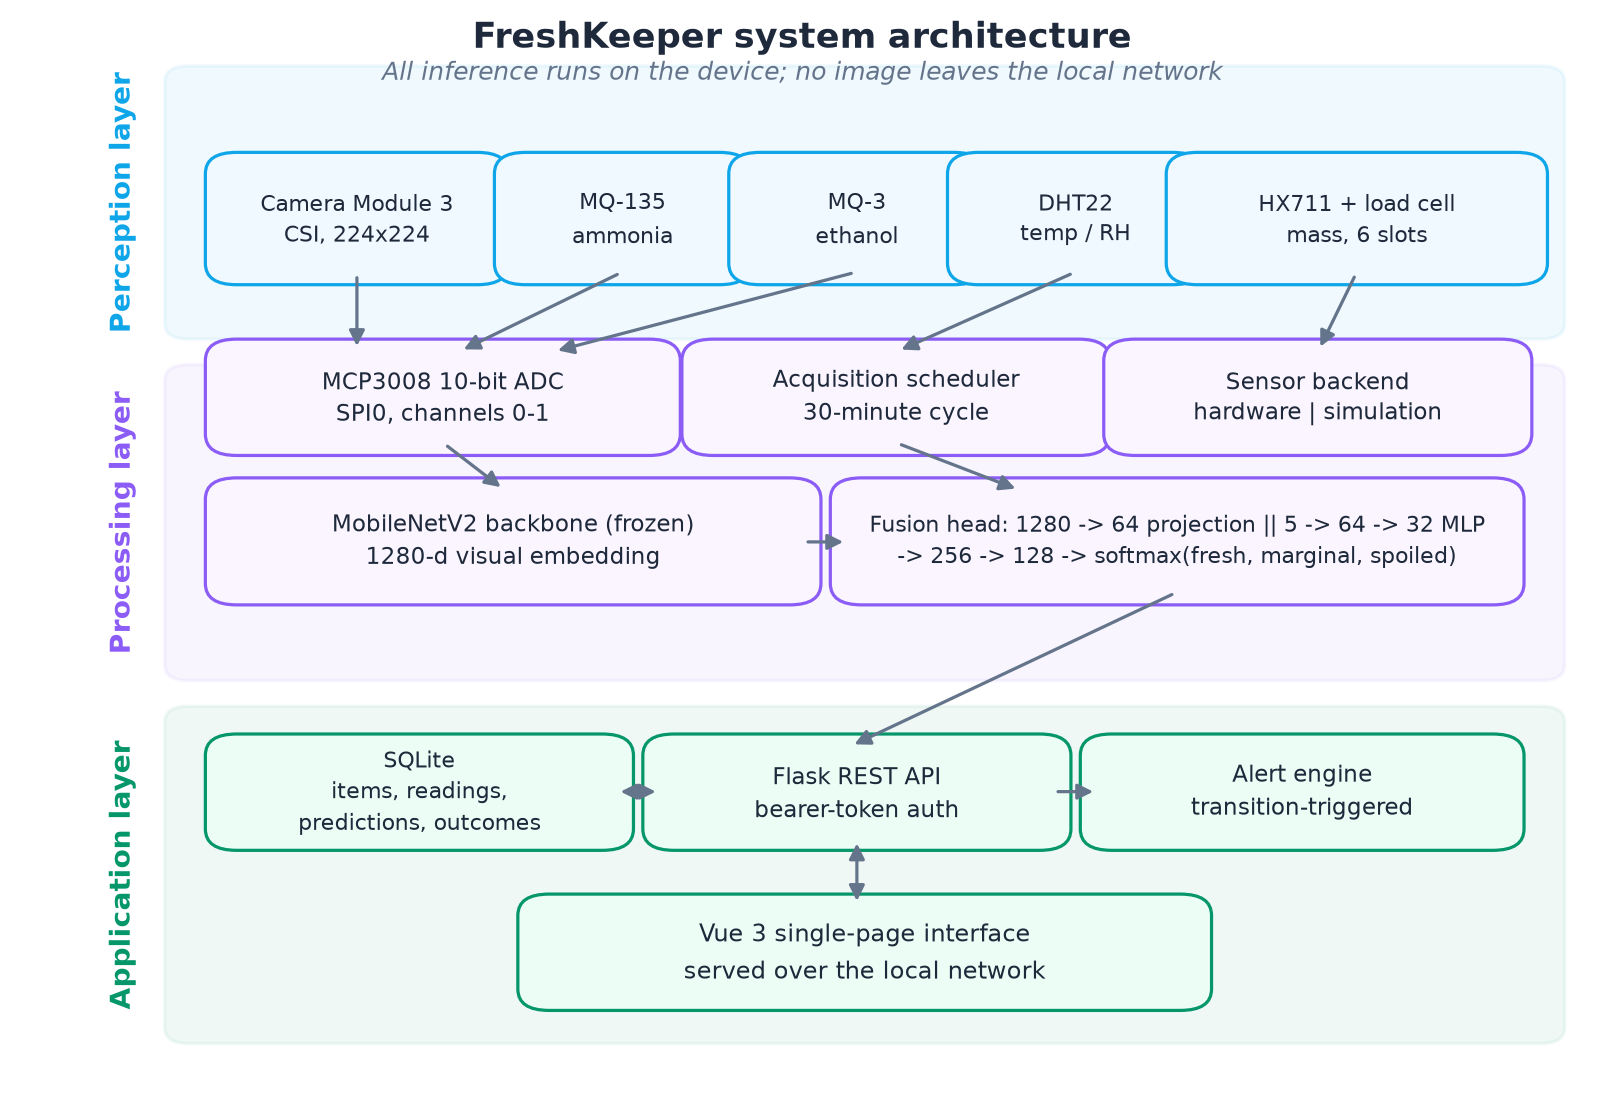
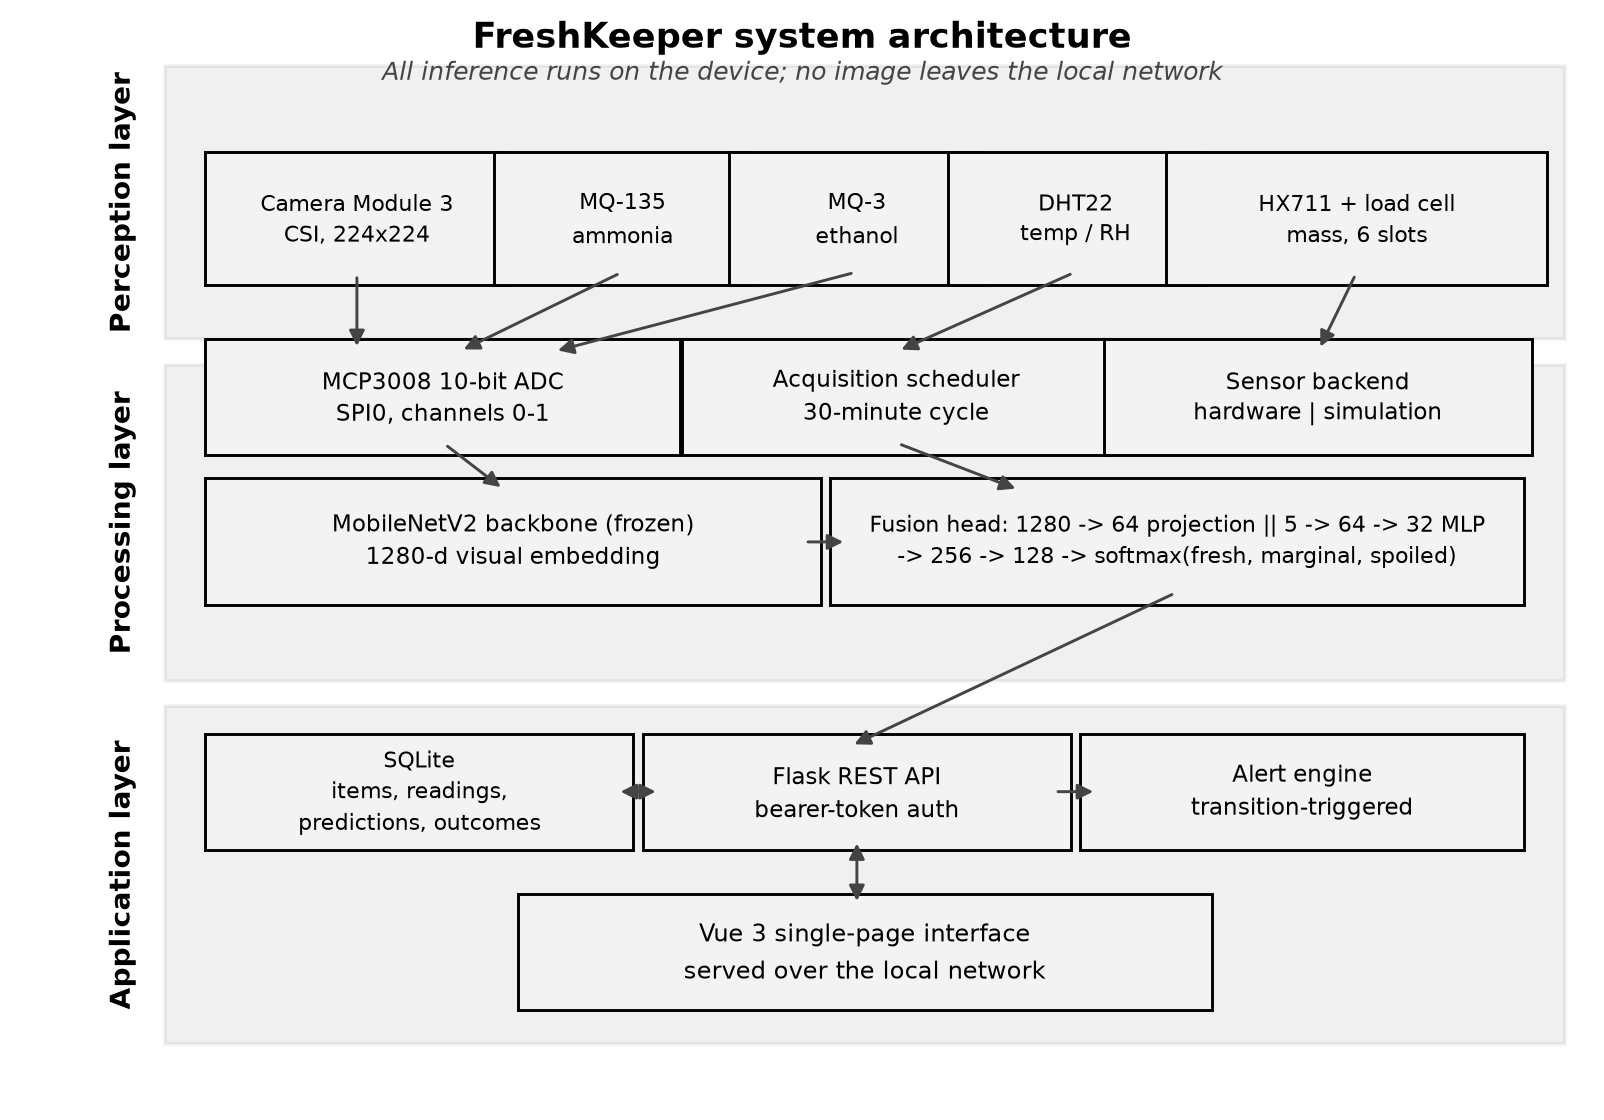
Restyle schematic diagrams to plain black-and-white academic style
Square boxes, thin black lines, light-grey fill, no colours. The architecture,
wiring, database, sequence and model diagrams now read like standard paper
figures instead of designed graphics. Nudged an overlapping label on the
database diagram.

diff --git a/scripts/make_diagrams.py b/scripts/make_diagrams.py
@@ -25,20 +25,20 @@ ROOT = Path(__file__).resolve().parents[1]
 sys.path.insert(0, str(ROOT))
 FIGURES = ROOT / "docs" / "figures"
 
-INK = "#1e293b"
-MUTED = "#64748b"
-LAYER_COLOURS = {"perception": "#0ea5e9", "network": "#8b5cf6", "application": "#059669"}
+INK = "#000000"
+MUTED = "#444444"
+LAYER_COLOURS = {"perception": "#000000", "network": "#000000", "application": "#000000"}
 
 
-def box(ax, x, y, w, h, text, face="#ffffff", edge=INK, fontsize=8.5, weight="normal"):
+def box(ax, x, y, w, h, text, face="#f3f3f3", edge=INK, fontsize=8.5, weight="normal"):
     ax.add_patch(FancyBboxPatch(
-        (x, y), w, h, boxstyle="round,pad=0.012,rounding_size=0.02",
-        facecolor=face, edgecolor=edge, linewidth=1.1))
+        (x, y), w, h, boxstyle="square,pad=0.012",
+        facecolor=face, edgecolor=edge, linewidth=1.0))
     ax.text(x + w / 2, y + h / 2, text, ha="center", va="center",
             fontsize=fontsize, color=INK, weight=weight, linespacing=1.45)
 
 
-def arrow(ax, start, end, style="-|>", colour=INK, lw=1.1, ls="-"):
+def arrow(ax, start, end, style="-|>", colour=INK, lw=1.0, ls="-"):
     ax.add_patch(FancyArrowPatch(
         start, end, arrowstyle=style, mutation_scale=11,
         color=colour, linewidth=lw, linestyle=ls,
@@ -68,7 +68,7 @@ def architecture() -> None:
     # the first row of boxes.
     for name, y, h, colour in bands:
         ax.add_patch(FancyBboxPatch(
-            (0.10, y), 0.88, h, boxstyle="round,pad=0.008,rounding_size=0.015",
+            (0.10, y), 0.88, h, boxstyle="square,pad=0.008",
             facecolor=colour, alpha=0.06, edgecolor=colour, linewidth=1.2))
         ax.text(0.065, y + h / 2, name, fontsize=9.5, weight="bold",
                 color=colour, rotation=90, ha="center", va="center")
@@ -82,39 +82,39 @@ def architecture() -> None:
     ]
     for label, x in sensors:
         width = 0.22 if "HX711" in label else (0.17 if "Camera" in label else 0.14)
-        box(ax, x, 0.775, width, 0.10, label, face="#f0f9ff",
+        box(ax, x, 0.775, width, 0.10, label, face="#f3f3f3",
             edge=LAYER_COLOURS["perception"], fontsize=7.6)
 
     box(ax, 0.13, 0.615, 0.28, 0.085,
-        "MCP3008 10-bit ADC\nSPI0, channels 0-1", face="#faf5ff",
+        "MCP3008 10-bit ADC\nSPI0, channels 0-1", face="#f3f3f3",
         edge=LAYER_COLOURS["network"], fontsize=7.8)
     box(ax, 0.435, 0.615, 0.25, 0.085,
-        "Acquisition scheduler\n30-minute cycle", face="#faf5ff",
+        "Acquisition scheduler\n30-minute cycle", face="#f3f3f3",
         edge=LAYER_COLOURS["network"], fontsize=7.8)
     box(ax, 0.705, 0.615, 0.25, 0.085,
-        "Sensor backend\nhardware | simulation", face="#faf5ff",
+        "Sensor backend\nhardware | simulation", face="#f3f3f3",
         edge=LAYER_COLOURS["network"], fontsize=7.8)
 
     box(ax, 0.13, 0.475, 0.37, 0.095,
         "MobileNetV2 backbone (frozen)\n1280-d visual embedding",
-        face="#faf5ff", edge=LAYER_COLOURS["network"], fontsize=7.8)
+        face="#f3f3f3", edge=LAYER_COLOURS["network"], fontsize=7.8)
     box(ax, 0.53, 0.475, 0.42, 0.095,
         "Fusion head: 1280 -> 64 projection || 5 -> 64 -> 32 MLP\n"
         "-> 256 -> 128 -> softmax(fresh, marginal, spoiled)",
-        face="#faf5ff", edge=LAYER_COLOURS["network"], fontsize=7.4)
+        face="#f3f3f3", edge=LAYER_COLOURS["network"], fontsize=7.4)
 
     box(ax, 0.13, 0.245, 0.25, 0.085,
         "SQLite\nitems, readings,\npredictions, outcomes",
-        face="#ecfdf5", edge=LAYER_COLOURS["application"], fontsize=7.5)
+        face="#f3f3f3", edge=LAYER_COLOURS["application"], fontsize=7.5)
     box(ax, 0.41, 0.245, 0.25, 0.085,
         "Flask REST API\nbearer-token auth",
-        face="#ecfdf5", edge=LAYER_COLOURS["application"], fontsize=7.8)
+        face="#f3f3f3", edge=LAYER_COLOURS["application"], fontsize=7.8)
     box(ax, 0.69, 0.245, 0.26, 0.085,
         "Alert engine\ntransition-triggered",
-        face="#ecfdf5", edge=LAYER_COLOURS["application"], fontsize=7.8)
+        face="#f3f3f3", edge=LAYER_COLOURS["application"], fontsize=7.8)
     box(ax, 0.33, 0.095, 0.42, 0.085,
         "Vue 3 single-page interface\nserved over the local network",
-        face="#ecfdf5", edge=LAYER_COLOURS["application"], fontsize=8.2)
+        face="#f3f3f3", edge=LAYER_COLOURS["application"], fontsize=8.2)
 
     arrow(ax, (0.215, 0.775), (0.215, 0.700), colour=MUTED)   # camera -> ADC
     arrow(ax, (0.385, 0.775), (0.28, 0.700), colour=MUTED)     # MQ-135 -> ADC
@@ -148,7 +148,7 @@ def wiring() -> None:
 
     fig, ax = blank_axes((9.8, 6.4))
     box(ax, 0.36, 0.30, 0.28, 0.42, "Raspberry Pi 4\nModel B (4 GB)\n\n40-pin GPIO header",
-        face="#fef2f2", edge="#b91c1c", fontsize=9, weight="bold")
+        face="#f3f3f3", edge="#b91c1c", fontsize=9, weight="bold")
 
     peripherals = [
         ("DHT22 (AM2302)\ntemperature / humidity", 0.04, 0.60, 0.24, 0.11,
@@ -165,7 +165,7 @@ def wiring() -> None:
          f"GPIO {rpi.PIN_HEATER_GATE}\ngate drive", "left"),
     ]
     for label, x, y, w, h, pins, side in peripherals:
-        box(ax, x, y, w, h, label, face="#f8fafc", fontsize=7.8)
+        box(ax, x, y, w, h, label, face="#f3f3f3", fontsize=7.8)
         if side == "right":
             arrow(ax, (x + w, y + h / 2), (0.36, y + h / 2), style="<|-|>", colour=MUTED)
             ax.text((x + w + 0.36) / 2, y + h / 2 + 0.035, pins,
@@ -176,8 +176,8 @@ def wiring() -> None:
                     ha="center", fontsize=6.4, color=MUTED)
 
     # Gas sensors hang off the ADC, not the Pi: the Pi has no analogue input.
-    box(ax, 0.04, 0.03, 0.115, 0.10, "MQ-135\nammonia\n5 V heater", face="#fffbeb", fontsize=7)
-    box(ax, 0.165, 0.03, 0.115, 0.10, "MQ-3\nethanol\n5 V heater", face="#fffbeb", fontsize=7)
+    box(ax, 0.04, 0.03, 0.115, 0.10, "MQ-135\nammonia\n5 V heater", face="#f3f3f3", fontsize=7)
+    box(ax, 0.165, 0.03, 0.115, 0.10, "MQ-3\nethanol\n5 V heater", face="#f3f3f3", fontsize=7)
     arrow(ax, (0.10, 0.13), (0.12, 0.22), colour=MUTED)
     arrow(ax, (0.22, 0.13), (0.18, 0.22), colour=MUTED)
     ax.text(0.29, 0.10,
@@ -225,12 +225,12 @@ def er_diagram() -> None:
             lines.append(f"{marker} {column.name}: {type_name}")
         height = 0.045 + 0.0255 * len(lines)
         ax.add_patch(FancyBboxPatch(
-            (x, y), 0.27, height, boxstyle="round,pad=0.006,rounding_size=0.01",
+            (x, y), 0.27, height, boxstyle="square,pad=0.006",
             facecolor="#ffffff", edgecolor=INK, linewidth=1.2))
         ax.add_patch(FancyBboxPatch(
             (x, y + height - 0.042), 0.27, 0.042,
-            boxstyle="round,pad=0.004,rounding_size=0.008",
-            facecolor="#e0f2fe", edgecolor=INK, linewidth=1.0))
+            boxstyle="square,pad=0.004",
+            facecolor="#e2e2e2", edgecolor=INK, linewidth=1.0))
         ax.text(x + 0.135, y + height - 0.021, name, ha="center", va="center",
                 fontsize=8.6, weight="bold", color=INK)
         for i, line in enumerate(lines):
@@ -242,7 +242,7 @@ def er_diagram() -> None:
     arrow(ax, (0.63, 0.66), (0.79, 0.20 + 0.20), style="-|>", colour=MUTED)
     ax.text(0.70, 0.47, "1 : 1\noutcome", fontsize=7, color=MUTED)
     arrow(ax, (0.36, 0.68), (0.20, 0.20 + 0.27), style="-|>", colour=MUTED, ls="--")
-    ax.text(0.16, 0.50, "by slot_id\n(not a foreign key)", fontsize=7, color=MUTED)
+    ax.text(0.05, 0.545, "by slot_id\n(not a foreign key)", fontsize=7, color=MUTED)
 
     ax.text(0.5, 0.985, "Database schema", ha="center", fontsize=12,
             weight="bold", color=INK)
@@ -288,7 +288,7 @@ def sequence() -> None:
             x = xs[src]
             ax.add_patch(FancyBboxPatch(
                 (x - 0.012, y - 0.016), 0.024, 0.032,
-                boxstyle="round,pad=0.002", facecolor="#e0f2fe",
+                boxstyle="square,pad=0.002", facecolor="#e2e2e2",
                 edgecolor=MUTED, linewidth=0.9))
             ax.text(x + 0.026, y, label, fontsize=7, color=INK, va="center")
         else:
@@ -453,20 +453,20 @@ def sensor_trajectories() -> None:
 def model_diagram() -> None:
     fig, ax = blank_axes((10.2, 5.2))
 
-    box(ax, 0.02, 0.62, 0.17, 0.14, "Image\n224 x 224 x 3", face="#e0f2fe", fontsize=8)
+    box(ax, 0.02, 0.62, 0.17, 0.14, "Image\n224 x 224 x 3", face="#e2e2e2", fontsize=8)
     box(ax, 0.22, 0.62, 0.20, 0.14,
-        "MobileNetV2\nfrozen, ImageNet\n2.26 M params", face="#f0f9ff", fontsize=7.6)
-    box(ax, 0.45, 0.62, 0.14, 0.14, "Embedding\n1280-d", face="#f0f9ff", fontsize=8)
-    box(ax, 0.62, 0.62, 0.15, 0.14, "Dense 64\n+ dropout", face="#f0f9ff", fontsize=8)
+        "MobileNetV2\nfrozen, ImageNet\n2.26 M params", face="#f3f3f3", fontsize=7.6)
+    box(ax, 0.45, 0.62, 0.14, 0.14, "Embedding\n1280-d", face="#f3f3f3", fontsize=8)
+    box(ax, 0.62, 0.62, 0.15, 0.14, "Dense 64\n+ dropout", face="#f3f3f3", fontsize=8)
 
     box(ax, 0.02, 0.20, 0.17, 0.14,
         "Sensor features\nethanol, ammonia,\ntemp, RH, Δmass", face="#fef3c7", fontsize=7.4)
     box(ax, 0.22, 0.20, 0.20, 0.14,
-        "Dense 64 + BN\n+ dropout", face="#fffbeb", fontsize=8)
-    box(ax, 0.45, 0.20, 0.14, 0.14, "Dense 32", face="#fffbeb", fontsize=8)
+        "Dense 64 + BN\n+ dropout", face="#f3f3f3", fontsize=8)
+    box(ax, 0.45, 0.20, 0.14, 0.14, "Dense 32", face="#f3f3f3", fontsize=8)
 
     box(ax, 0.80, 0.41, 0.16, 0.16,
-        "Concatenate\n64 + 32 = 96", face="#f5f3ff", fontsize=8)
+        "Concatenate\n64 + 32 = 96", face="#f3f3f3", fontsize=8)
     for start, end in (((0.19, 0.69), (0.22, 0.69)), ((0.42, 0.69), (0.45, 0.69)),
                        ((0.59, 0.69), (0.62, 0.69)), ((0.19, 0.27), (0.22, 0.27)),
                        ((0.42, 0.27), (0.45, 0.27)), ((0.77, 0.69), (0.86, 0.57)),
